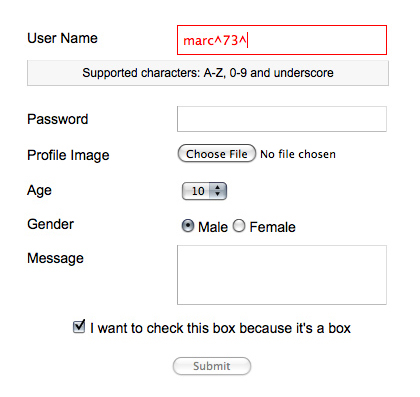
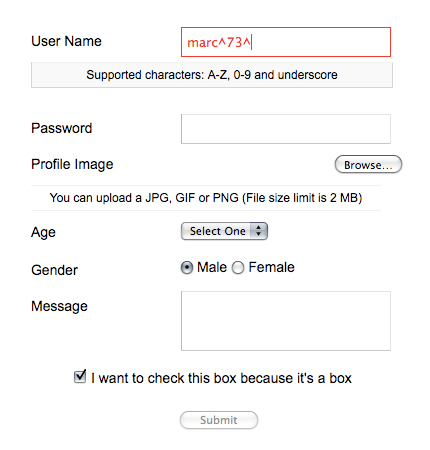
Updated preview image
Added preview image to documentation

diff --git a/README.html b/README.html
@@ -11,6 +11,8 @@
 
 <p>Dynamically generate an HTML form with field validation and custom errors using a simple JSON</p>
 
+<img class="preview" src="preview.jpg">
+
 <h2>Features</h2>
 
 <ul>
